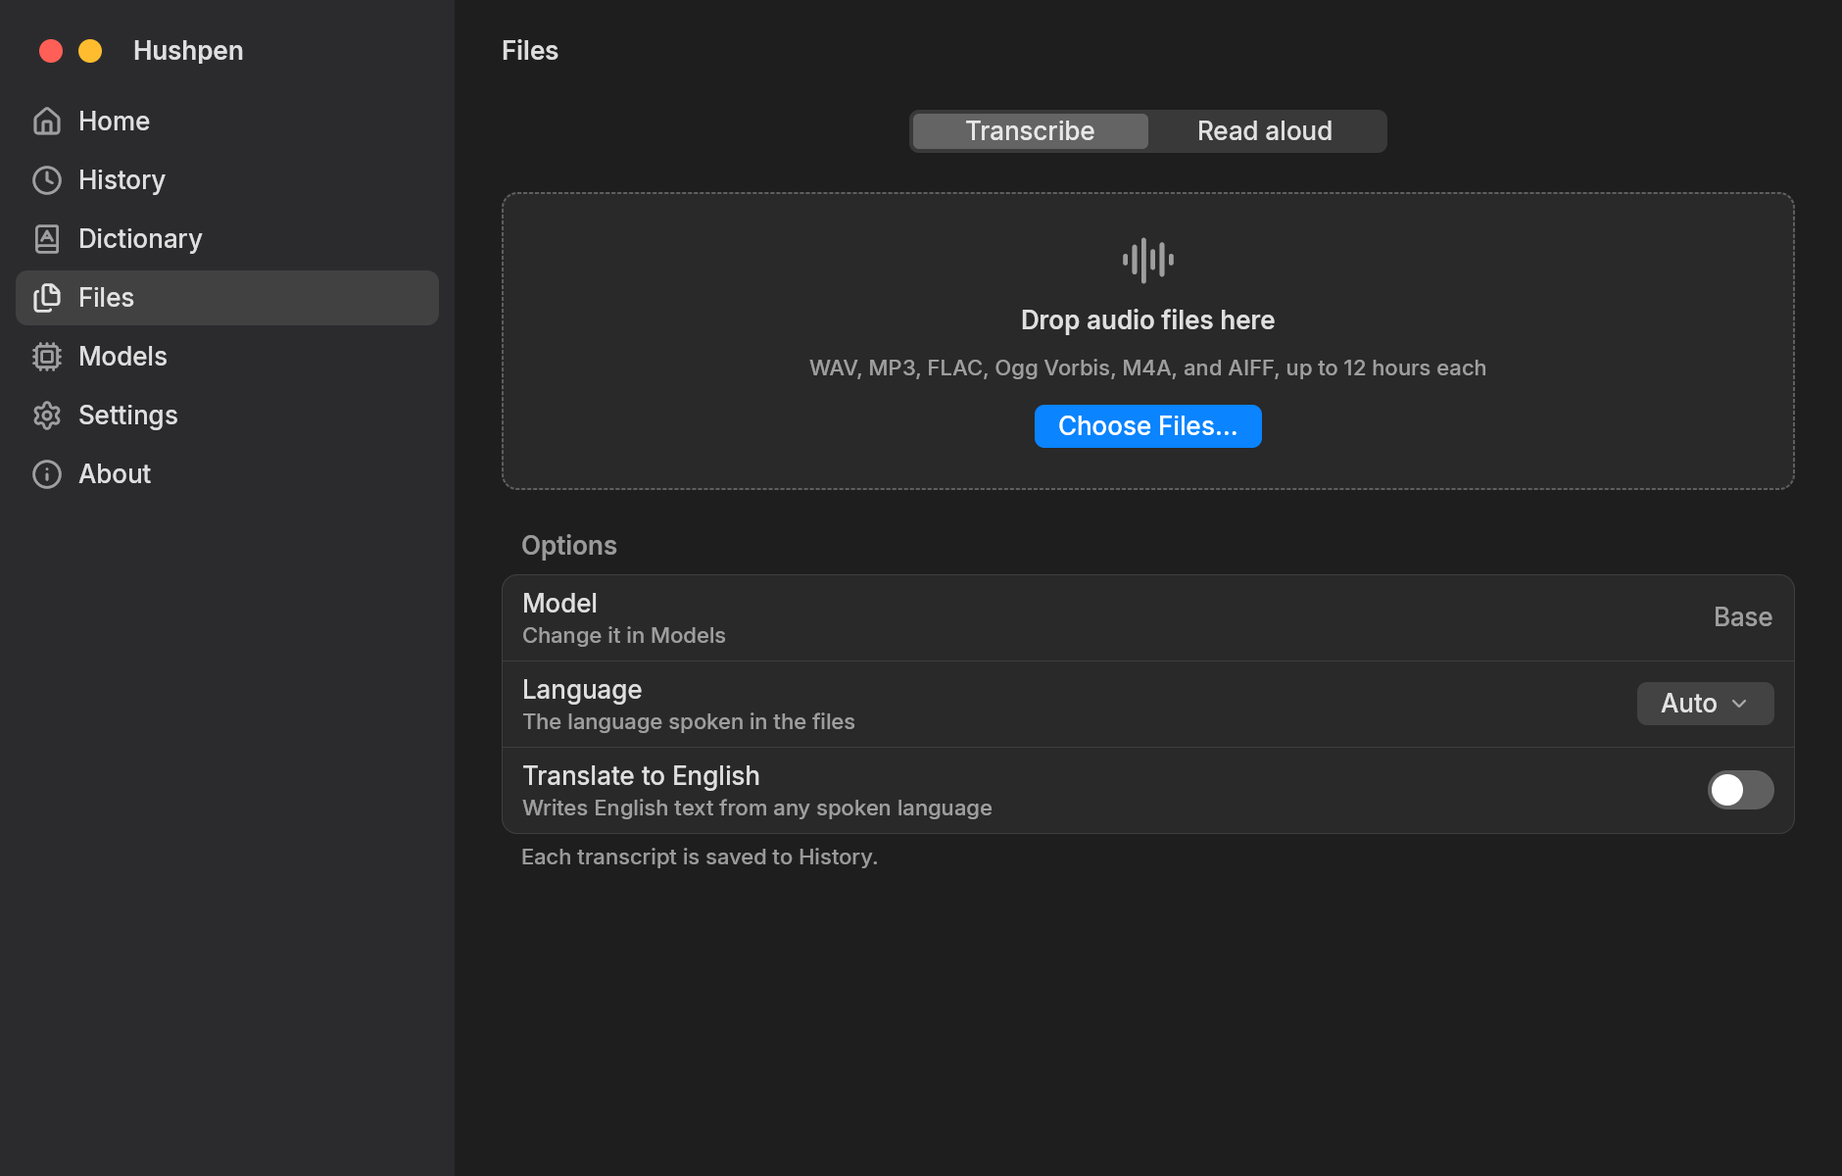
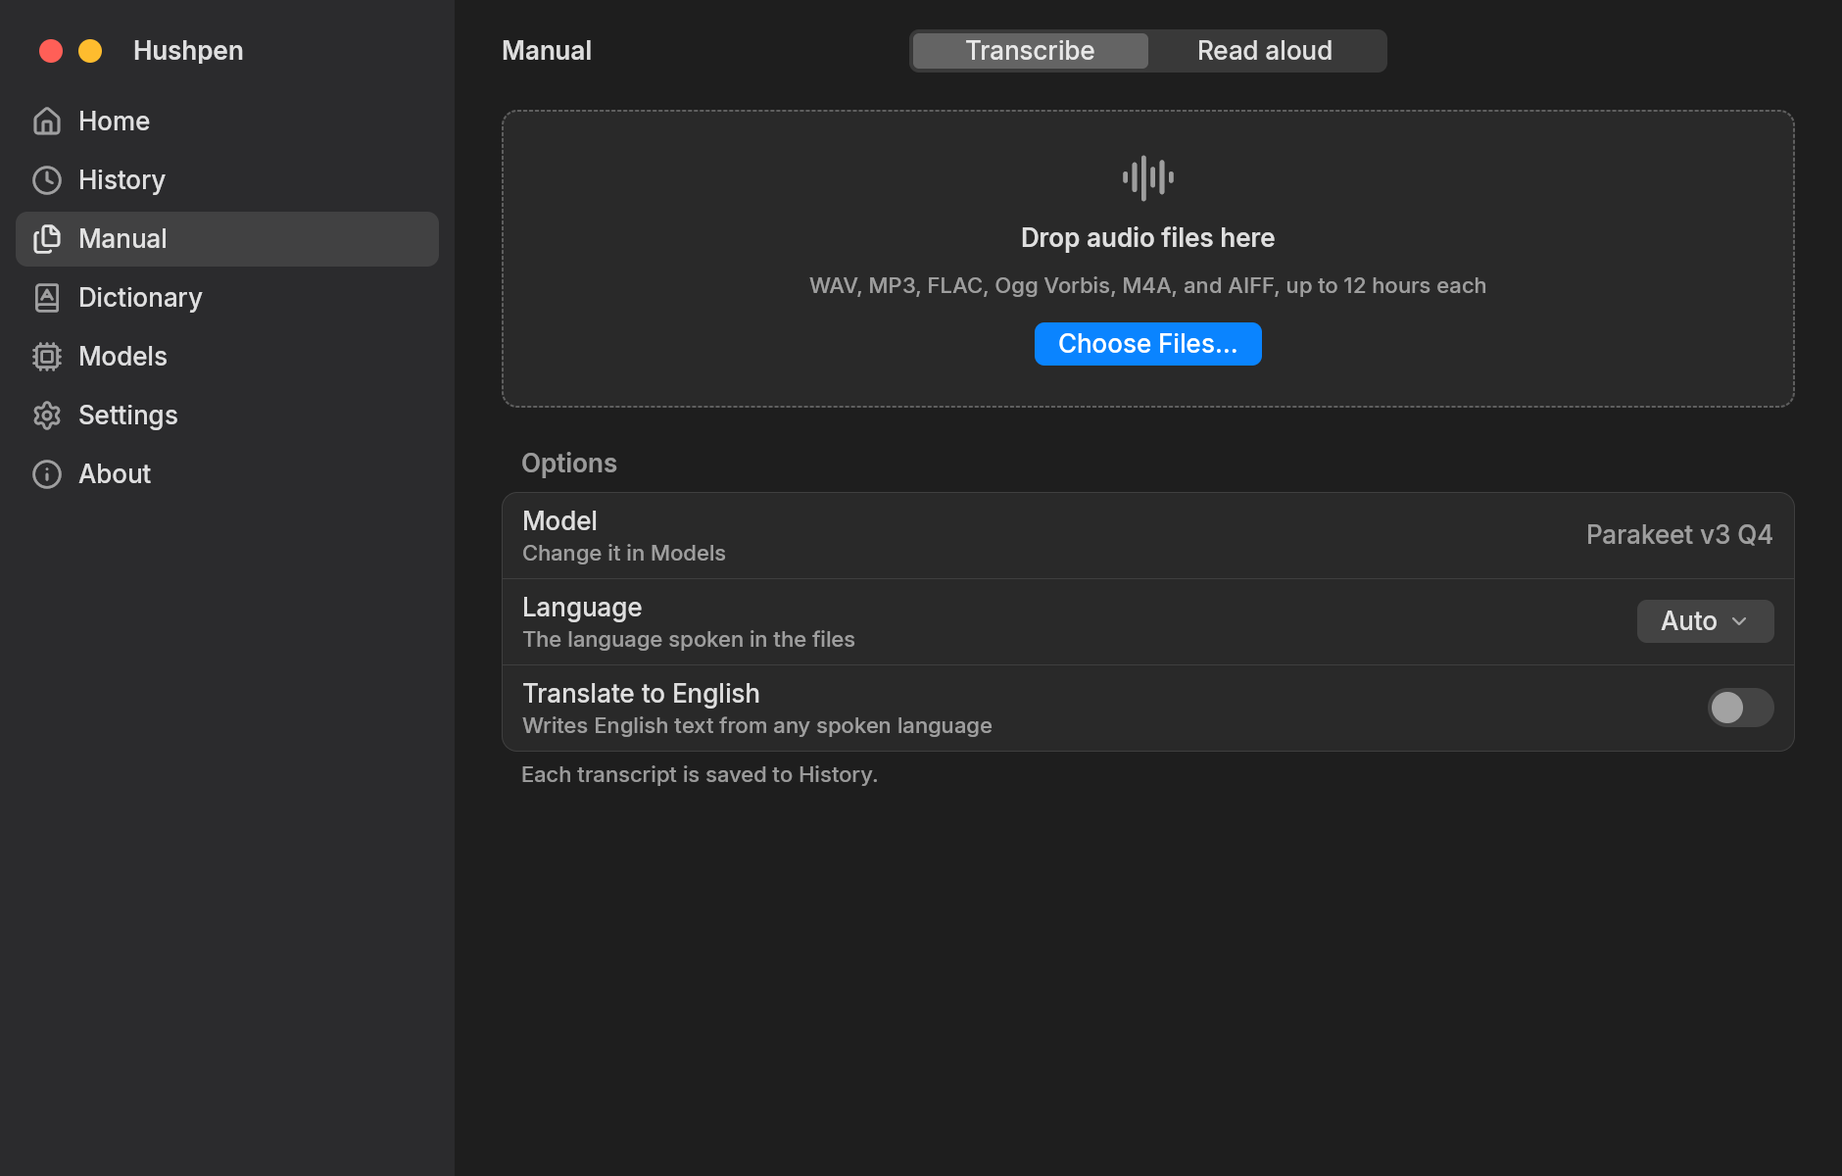
Point the website at the 2.3.0 release
The download links, file names, and version lines now name 2.3.0.
The screenshots come from the current Dark renders: Manual in the
sidebar, the four speech models, and the S1-mini prompt sheet. The
pages name Parakeet, cleanup profiles, word packs, voice mixes and
cloned voices, and the mute while dictating.

diff --git a/docs/index.html b/docs/index.html
@@ -22,7 +22,7 @@
         <a class="brand" href="./index.html"><img src="./assets/hushpen-app-icon.png" alt="" width="28" height="28" />Hushpen</a>
         <nav class="nav-links" aria-label="Primary">
           <a href="./getting-started.html">Getting started</a>
-          <a href="https://github.com/surajmandalcell/hushpen/releases/tag/v2.2.0" target="_blank" rel="noreferrer">Releases</a>
+          <a href="https://github.com/surajmandalcell/hushpen/releases/tag/v2.3.0" target="_blank" rel="noreferrer">Releases</a>
           <a class="nav-cta" href="https://github.com/surajmandalcell/hushpen" target="_blank" rel="noreferrer">GitHub</a>
         </nav>
       </div>
@@ -31,7 +31,7 @@
     <main class="shell">
       <section class="hero-grid">
         <div class="hero-copy">
-          <p class="prompt-line">Hushpen 2.2.0</p>
+          <p class="prompt-line">Hushpen 2.3.0</p>
           <h1>Private dictation on your own computer<span class="cursor" aria-hidden="true"></span></h1>
           <p class="lead">
             Hold a key and speak. Hushpen transcribes your speech locally, cleans up the text, and pastes it into the app
@@ -45,7 +45,7 @@
             </div>
             <div class="terminal-row">
               <span class="terminal-key">local models</span>
-              <span>Whisper models from Tiny to Large v3, plus text cleanup and voice models. Each one shows what it is for, its speed, accuracy, and source, and downloads only when you ask, with a checked hash.</span>
+              <span>Parakeet and Whisper speech models, plus text cleanup and voice models. Each one shows what it is for, its speed, accuracy, and source, and downloads only when you ask, with a checked hash.</span>
             </div>
             <div class="terminal-row">
               <span class="terminal-key">paste</span>
@@ -53,7 +53,7 @@
             </div>
             <div class="terminal-row">
               <span class="terminal-key">cleanup</span>
-              <span>Rule-based cleanup is on by default. AI cleanup is off until you turn it on.</span>
+              <span>Rule-based cleanup is on by default. AI cleanup is off until you turn it on, and its profiles shape the text for messages, email, or notes.</span>
             </div>
           </div>
 
@@ -69,9 +69,9 @@
         <section id="download" class="doc-section">
           <h2>Download</h2>
           <p>
-            Get Hushpen 2.2.0 from the
-            <a href="https://github.com/surajmandalcell/hushpen/releases/tag/v2.2.0" target="_blank" rel="noreferrer">release page</a>.
-            Each file is named <code>Hushpen-2.2.0-&lt;target&gt;.&lt;ext&gt;</code>.
+            Get Hushpen 2.3.0 from the
+            <a href="https://github.com/surajmandalcell/hushpen/releases/tag/v2.3.0" target="_blank" rel="noreferrer">release page</a>.
+            Each file is named <code>Hushpen-2.3.0-&lt;target&gt;.&lt;ext&gt;</code>.
           </p>
           <div class="doc-table-wrap">
             <table class="doc-table">
@@ -85,26 +85,26 @@
                 <tr>
                   <td><strong>macOS 13 or later</strong><br />Apple silicon</td>
                   <td>
-                    <a href="https://github.com/surajmandalcell/hushpen/releases/download/v2.2.0/Hushpen-2.2.0-macos-arm64.dmg" target="_blank" rel="noreferrer"><code>Hushpen-2.2.0-macos-arm64.dmg</code></a><br />
-                    <a href="https://github.com/surajmandalcell/hushpen/releases/download/v2.2.0/Hushpen-2.2.0-macos-arm64.zip" target="_blank" rel="noreferrer"><code>Hushpen-2.2.0-macos-arm64.zip</code></a>
+                    <a href="https://github.com/surajmandalcell/hushpen/releases/download/v2.3.0/Hushpen-2.3.0-macos-arm64.dmg" target="_blank" rel="noreferrer"><code>Hushpen-2.3.0-macos-arm64.dmg</code></a><br />
+                    <a href="https://github.com/surajmandalcell/hushpen/releases/download/v2.3.0/Hushpen-2.3.0-macos-arm64.zip" target="_blank" rel="noreferrer"><code>Hushpen-2.3.0-macos-arm64.zip</code></a>
                   </td>
                 </tr>
                 <tr>
                   <td><strong>Linux x64</strong><br />X11 session</td>
                   <td>
-                    <a href="https://github.com/surajmandalcell/hushpen/releases/download/v2.2.0/Hushpen-2.2.0-linux-x64.AppImage" target="_blank" rel="noreferrer"><code>Hushpen-2.2.0-linux-x64.AppImage</code></a><br />
-                    <a href="https://github.com/surajmandalcell/hushpen/releases/download/v2.2.0/Hushpen-2.2.0-linux-x64.deb" target="_blank" rel="noreferrer"><code>Hushpen-2.2.0-linux-x64.deb</code></a><br />
-                    <a href="https://github.com/surajmandalcell/hushpen/releases/download/v2.2.0/Hushpen-2.2.0-linux-x64.rpm" target="_blank" rel="noreferrer"><code>Hushpen-2.2.0-linux-x64.rpm</code></a><br />
-                    <a href="https://github.com/surajmandalcell/hushpen/releases/download/v2.2.0/Hushpen-2.2.0-linux-x64.tar.gz" target="_blank" rel="noreferrer"><code>Hushpen-2.2.0-linux-x64.tar.gz</code></a>
+                    <a href="https://github.com/surajmandalcell/hushpen/releases/download/v2.3.0/Hushpen-2.3.0-linux-x64.AppImage" target="_blank" rel="noreferrer"><code>Hushpen-2.3.0-linux-x64.AppImage</code></a><br />
+                    <a href="https://github.com/surajmandalcell/hushpen/releases/download/v2.3.0/Hushpen-2.3.0-linux-x64.deb" target="_blank" rel="noreferrer"><code>Hushpen-2.3.0-linux-x64.deb</code></a><br />
+                    <a href="https://github.com/surajmandalcell/hushpen/releases/download/v2.3.0/Hushpen-2.3.0-linux-x64.rpm" target="_blank" rel="noreferrer"><code>Hushpen-2.3.0-linux-x64.rpm</code></a><br />
+                    <a href="https://github.com/surajmandalcell/hushpen/releases/download/v2.3.0/Hushpen-2.3.0-linux-x64.tar.gz" target="_blank" rel="noreferrer"><code>Hushpen-2.3.0-linux-x64.tar.gz</code></a>
                   </td>
                 </tr>
                 <tr>
                   <td><strong>Linux arm64</strong><br />X11 session</td>
                   <td>
-                    <a href="https://github.com/surajmandalcell/hushpen/releases/download/v2.2.0/Hushpen-2.2.0-linux-arm64.AppImage" target="_blank" rel="noreferrer"><code>Hushpen-2.2.0-linux-arm64.AppImage</code></a><br />
-                    <a href="https://github.com/surajmandalcell/hushpen/releases/download/v2.2.0/Hushpen-2.2.0-linux-arm64.deb" target="_blank" rel="noreferrer"><code>Hushpen-2.2.0-linux-arm64.deb</code></a><br />
-                    <a href="https://github.com/surajmandalcell/hushpen/releases/download/v2.2.0/Hushpen-2.2.0-linux-arm64.rpm" target="_blank" rel="noreferrer"><code>Hushpen-2.2.0-linux-arm64.rpm</code></a><br />
-                    <a href="https://github.com/surajmandalcell/hushpen/releases/download/v2.2.0/Hushpen-2.2.0-linux-arm64.tar.gz" target="_blank" rel="noreferrer"><code>Hushpen-2.2.0-linux-arm64.tar.gz</code></a>
+                    <a href="https://github.com/surajmandalcell/hushpen/releases/download/v2.3.0/Hushpen-2.3.0-linux-arm64.AppImage" target="_blank" rel="noreferrer"><code>Hushpen-2.3.0-linux-arm64.AppImage</code></a><br />
+                    <a href="https://github.com/surajmandalcell/hushpen/releases/download/v2.3.0/Hushpen-2.3.0-linux-arm64.deb" target="_blank" rel="noreferrer"><code>Hushpen-2.3.0-linux-arm64.deb</code></a><br />
+                    <a href="https://github.com/surajmandalcell/hushpen/releases/download/v2.3.0/Hushpen-2.3.0-linux-arm64.rpm" target="_blank" rel="noreferrer"><code>Hushpen-2.3.0-linux-arm64.rpm</code></a><br />
+                    <a href="https://github.com/surajmandalcell/hushpen/releases/download/v2.3.0/Hushpen-2.3.0-linux-arm64.tar.gz" target="_blank" rel="noreferrer"><code>Hushpen-2.3.0-linux-arm64.tar.gz</code></a>
                   </td>
                 </tr>
               </tbody>
@@ -138,42 +138,42 @@
             <div class="screenshot-frame">
               <img src="./screenshots/hushpen-history.png" alt="Hushpen History view with a search field and a list of saved transcripts" />
             </div>
-            <figcaption><strong>History</strong><span>search, re-paste, reprocess, and export saved transcripts</span></figcaption>
+            <figcaption><strong>History</strong><span>search, copy, reprocess, and export saved transcripts</span></figcaption>
           </figure>
 
           <figure class="screenshot-slide" aria-hidden="true">
             <div class="screenshot-frame">
-              <img src="./screenshots/hushpen-files.png" alt="Hushpen Files view in Transcribe mode with the drop zone and the transcription options" />
+              <img src="./screenshots/hushpen-files.png" alt="Hushpen Manual view in Transcribe mode with the drop zone and the transcription options" />
             </div>
-            <figcaption><strong>Files</strong><span>drop audio files to transcribe or translate them in a queue</span></figcaption>
+            <figcaption><strong>Manual</strong><span>drop audio files to transcribe or translate them in a queue</span></figcaption>
           </figure>
 
           <figure class="screenshot-slide" aria-hidden="true">
             <div class="screenshot-frame">
-              <img src="./screenshots/hushpen-read-aloud.png" alt="Hushpen Files view in Read aloud mode with the text area and the voice settings" />
+              <img src="./screenshots/hushpen-read-aloud.png" alt="Hushpen Manual view in Read aloud mode with the text area and the voice settings" />
             </div>
-            <figcaption><strong>Read aloud</strong><span>text or a text file, spoken by the system voice or Kokoro</span></figcaption>
+            <figcaption><strong>Read aloud</strong><span>text or a text file, spoken by the system voice, Kokoro, or Chatterbox</span></figcaption>
           </figure>
 
           <figure class="screenshot-slide" aria-hidden="true">
             <div class="screenshot-frame">
-              <img src="./screenshots/hushpen-models.png" alt="Hushpen Models view at the speech recognition section, with the size, status, and details button of each Whisper model" />
+              <img src="./screenshots/hushpen-models.png" alt="Hushpen Models view at the speech recognition section, with the size, status, and details button of each speech model" />
             </div>
             <figcaption><strong>Models</strong><span>speech, text cleanup, and voice models, downloaded only when you ask</span></figcaption>
           </figure>
 
           <figure class="screenshot-slide" aria-hidden="true">
             <div class="screenshot-frame">
-              <img src="./screenshots/hushpen-cleanup.png" alt="Hushpen Settings list at the Cleanup section, with text cleanup on and AI cleanup off" />
+              <img src="./screenshots/hushpen-cleanup.png" alt="Hushpen Settings with the cleanup prompt sheet of the General profile" />
             </div>
-            <figcaption><strong>Cleanup</strong><span>text cleanup is on, AI cleanup is off until you turn it on</span></figcaption>
+            <figcaption><strong>Cleanup</strong><span>profiles, and the exact prompt the cleanup model gets</span></figcaption>
           </figure>
         </div>
 
         <div class="carousel-dots" aria-label="Choose screenshot">
           <button type="button" aria-label="Show Home screenshot" aria-current="true" data-carousel-dot></button>
           <button type="button" aria-label="Show History screenshot" data-carousel-dot></button>
-          <button type="button" aria-label="Show Files screenshot" data-carousel-dot></button>
+          <button type="button" aria-label="Show Manual screenshot" data-carousel-dot></button>
           <button type="button" aria-label="Show Read aloud screenshot" data-carousel-dot></button>
           <button type="button" aria-label="Show Models screenshot" data-carousel-dot></button>
           <button type="button" aria-label="Show Cleanup screenshot" data-carousel-dot></button>
@@ -186,11 +186,11 @@
           <h2>What it does</h2>
           <ul class="plain-list">
             <li><strong>Command Mode</strong>: hold a key, speak an instruction, and the model edits the selected text</li>
-            <li><strong>Dictionary</strong>: your own words and replacements</li>
-            <li><strong>History</strong>: search, re-paste, reprocess, delete with undo, and export to TXT, SRT, VTT, and JSON</li>
-            <li><strong>Files</strong>: drop audio files on the window to transcribe or translate them in a queue, with the time left, Copy, Export, Show in History, and Retry</li>
-            <li><strong>Read aloud</strong>: text or a .txt or .md file, spoken by the system voice or Kokoro, with Export Audio to WAV</li>
-            <li><strong>AI cleanup</strong>: a local model, or an OpenAI-compatible endpoint such as Ollama or LM Studio</li>
+            <li><strong>Dictionary</strong>: your own words and replacements, plus word packs for Indian names and places, Hinglish words, and tech terms</li>
+            <li><strong>History</strong>: search, copy, reprocess, delete with undo, and export to TXT, SRT, VTT, and JSON. Read aloud is kept there too.</li>
+            <li><strong>Manual</strong>: drop audio files on the window to transcribe or translate them in a queue, with the time left, Copy, Export, Show in History, and Retry</li>
+            <li><strong>Read aloud</strong>: text or a .txt or .md file, spoken by the system voice, Kokoro (one voice or a mix of two), or Chatterbox in a voice you clone, with Export Audio to WAV</li>
+            <li><strong>AI cleanup</strong>: a local model (S1-mini by Superwhisper or Qwen3.5 2B), or an OpenAI-compatible endpoint such as Ollama or LM Studio, with profiles for messages, email, and notes</li>
           </ul>
         </article>
 
@@ -199,7 +199,7 @@
           <h2>More</h2>
           <ul class="plain-list">
             <li><strong><a href="./getting-started.html">getting started</a></strong>: install, permissions, first dictation, and where data lives</li>
-            <li><strong><a href="https://github.com/surajmandalcell/hushpen/releases/tag/v2.2.0" target="_blank" rel="noreferrer">releases</a></strong>: Hushpen 2.2.0 downloads</li>
+            <li><strong><a href="https://github.com/surajmandalcell/hushpen/releases/tag/v2.3.0" target="_blank" rel="noreferrer">releases</a></strong>: Hushpen 2.3.0 downloads</li>
             <li><strong><a href="https://github.com/surajmandalcell/hushpen" target="_blank" rel="noreferrer">source</a></strong>: code, build steps, and issues</li>
           </ul>
         </article>

diff --git a/docs/getting-started.html b/docs/getting-started.html
@@ -19,7 +19,7 @@
         <a class="brand" href="./index.html"><img src="./assets/hushpen-app-icon.png" alt="" width="28" height="28" />Hushpen</a>
         <nav class="nav-links" aria-label="Primary">
           <a class="is-active" href="./getting-started.html">Getting started</a>
-          <a href="https://github.com/surajmandalcell/hushpen/releases/tag/v2.2.0" target="_blank" rel="noreferrer">Releases</a>
+          <a href="https://github.com/surajmandalcell/hushpen/releases/tag/v2.3.0" target="_blank" rel="noreferrer">Releases</a>
           <a class="nav-cta" href="https://github.com/surajmandalcell/hushpen" target="_blank" rel="noreferrer">GitHub</a>
         </nav>
       </div>
@@ -27,7 +27,7 @@
 
     <main class="shell">
       <section class="doc-hero">
-        <p class="prompt-line">Hushpen 2.2.0</p>
+        <p class="prompt-line">Hushpen 2.3.0</p>
         <h1>Getting started</h1>
         <p class="lead">
           Install Hushpen, allow it to hear and paste, and make your first dictation. Everything stays on your computer.
@@ -45,7 +45,7 @@
           <h2>Install</h2>
           <p>
             Download a file from the
-            <a href="https://github.com/surajmandalcell/hushpen/releases/tag/v2.2.0" target="_blank" rel="noreferrer">release page</a>.
+            <a href="https://github.com/surajmandalcell/hushpen/releases/tag/v2.3.0" target="_blank" rel="noreferrer">release page</a>.
             Hushpen runs on macOS 13 or later on Apple silicon, and on Linux x64 and arm64 with an X11 session.
           </p>
           <div class="doc-table-wrap">
@@ -60,25 +60,25 @@
                 <tr>
                   <td><strong>macOS</strong></td>
                   <td>
-                    Open <code>Hushpen-2.2.0-macos-arm64.dmg</code> and drag Hushpen to Applications. Or unzip
-                    <code>Hushpen-2.2.0-macos-arm64.zip</code> and move <code>Hushpen.app</code> to Applications.
+                    Open <code>Hushpen-2.3.0-macos-arm64.dmg</code> and drag Hushpen to Applications. Or unzip
+                    <code>Hushpen-2.3.0-macos-arm64.zip</code> and move <code>Hushpen.app</code> to Applications.
                   </td>
                 </tr>
                 <tr>
                   <td><strong>Linux AppImage</strong></td>
-                  <td>Run <code>chmod +x Hushpen-2.2.0-linux-x64.AppImage</code>, then run the file.</td>
+                  <td>Run <code>chmod +x Hushpen-2.3.0-linux-x64.AppImage</code>, then run the file.</td>
                 </tr>
                 <tr>
                   <td><strong>Debian, Ubuntu</strong></td>
-                  <td><code>sudo apt install ./Hushpen-2.2.0-linux-x64.deb</code></td>
+                  <td><code>sudo apt install ./Hushpen-2.3.0-linux-x64.deb</code></td>
                 </tr>
                 <tr>
                   <td><strong>Fedora, openSUSE</strong></td>
-                  <td><code>sudo dnf install ./Hushpen-2.2.0-linux-x64.rpm</code></td>
+                  <td><code>sudo dnf install ./Hushpen-2.3.0-linux-x64.rpm</code></td>
                 </tr>
                 <tr>
                   <td><strong>Linux tar.gz</strong></td>
-                  <td>Run <code>tar xzf Hushpen-2.2.0-linux-x64.tar.gz</code>, then run <code>hushpen</code> from the new folder.</td>
+                  <td>Run <code>tar xzf Hushpen-2.3.0-linux-x64.tar.gz</code>, then run <code>hushpen</code> from the new folder.</td>
                 </tr>
               </tbody>
             </table>
@@ -161,7 +161,7 @@ tccutil reset Accessibility io.github.surajmandalcell.hushpen</pre>
           <ul>
             <li><strong>Permissions</strong>: each line shows where a system need stands</li>
             <li><strong>Microphone test</strong>: press Test, say a sentence, then press Stop to see the level move</li>
-            <li><strong>Speech model</strong>: download one Whisper model. Hushpen checks the file before it uses it.</li>
+            <li><strong>Speech model</strong>: download Parakeet v3 Q4, the recommended speech model. Hushpen checks the file before it uses it.</li>
             <li><strong>Shortcut practice</strong>: hold the hold key, say a sentence, then let go</li>
             <li><strong>Updates</strong>: the update check is off unless you turn it on, and you can change it later in Settings</li>
           </ul>
@@ -175,10 +175,12 @@ tccutil reset Accessibility io.github.surajmandalcell.hushpen</pre>
             The flow bar shows the dictation state without taking focus. To use another key, record it in the Shortcuts section of
             Settings. Any key or chord works. If another app already uses it, the field says how to free it. The switch on each row turns that shortcut off, and the reset button brings back its default. Select text in any app and press Ctrl+Cmd+S (Ctrl+Alt+S on Linux) to hear it read aloud; press it again to stop. Settings is one list with a search field: press Cmd+F (Ctrl+F on Linux) and type to find a setting. Home also
             has a Record button and a language choice. If your microphone is quiet, raise Input boost in the Audio section of
-            Settings, up to 200%.
+            Settings, up to 200%. Other audio goes quiet while you dictate; turn off Mute other audio while dictating in the same section to keep it playing.
           </p>
           <p>
-            The Models view lists speech, text cleanup, and voice models, and marks the recommended one of each kind.
+            The Models view lists speech, text cleanup, and voice models, marks the recommended one of each kind, and has a search field.
+            Parakeet v3 Q4 covers English and 24 other European languages. Use Whisper Large v3 Turbo Q5 for Hindi and other
+            languages, and Whisper Small Q5 to translate speech to English.
             The details button of a model shows what it is good for, its speed, accuracy, memory, and languages, the page it
             downloads from, its folder, and its checksum. A download starts only when the disk has room for it.
           </p>
